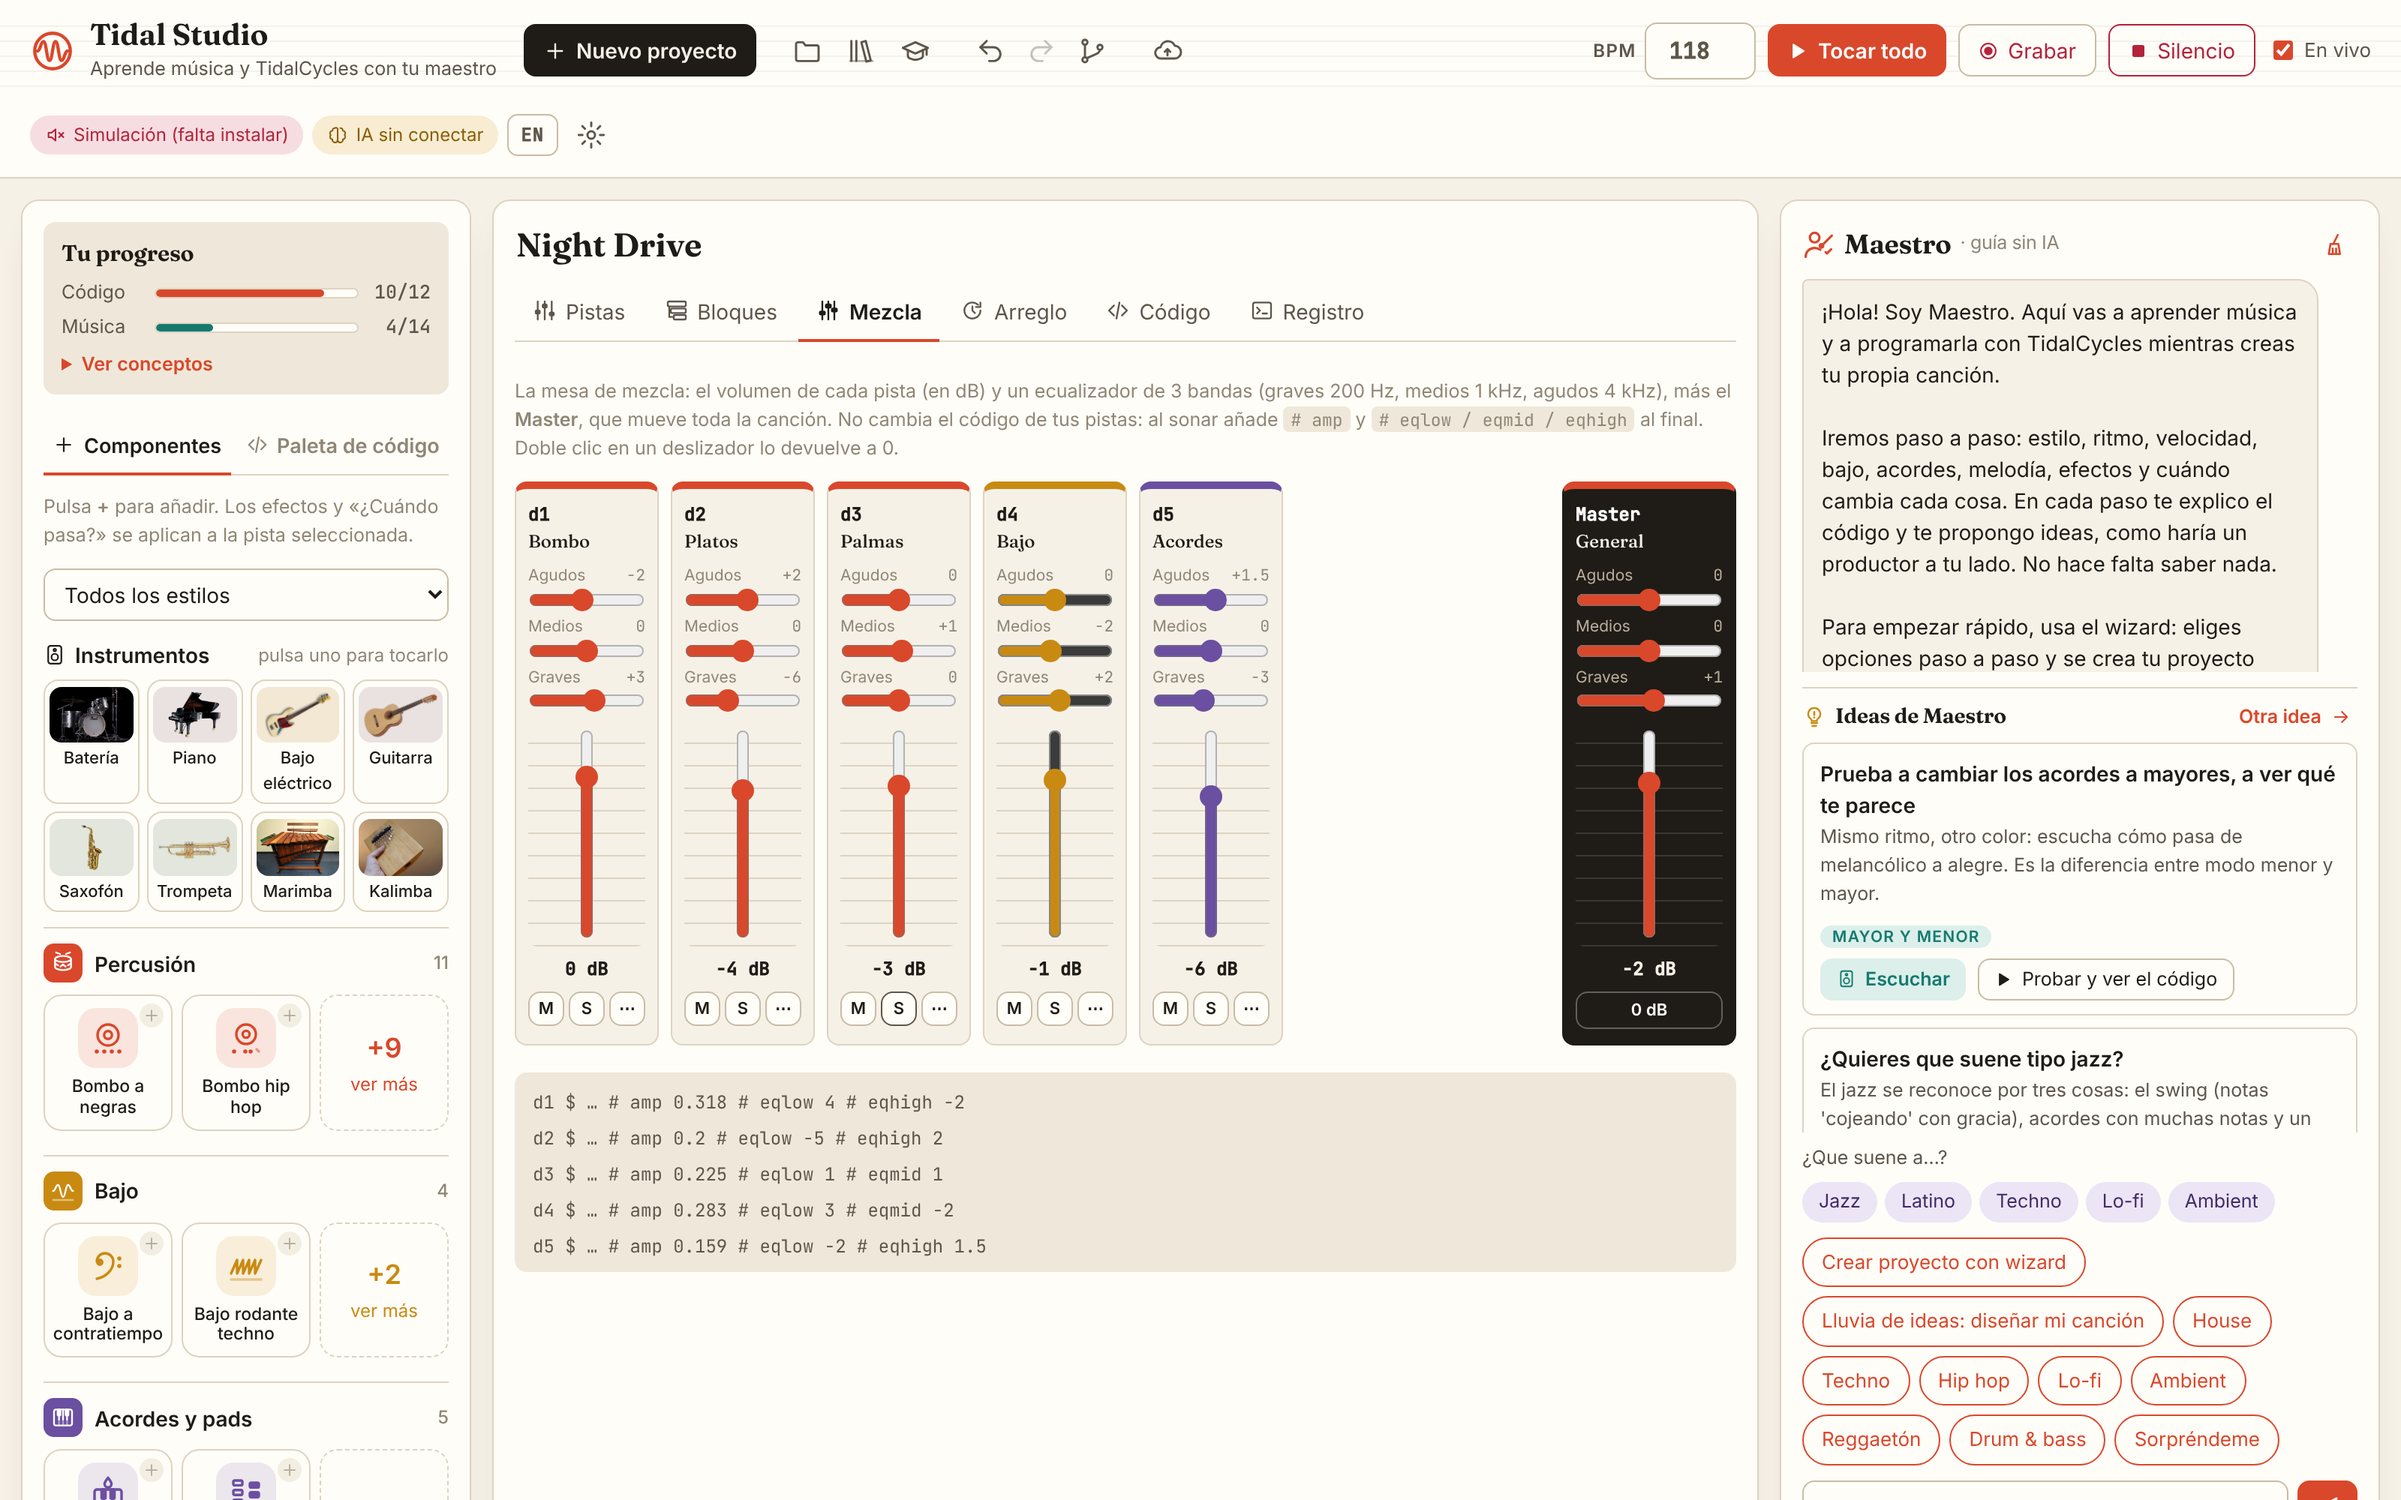
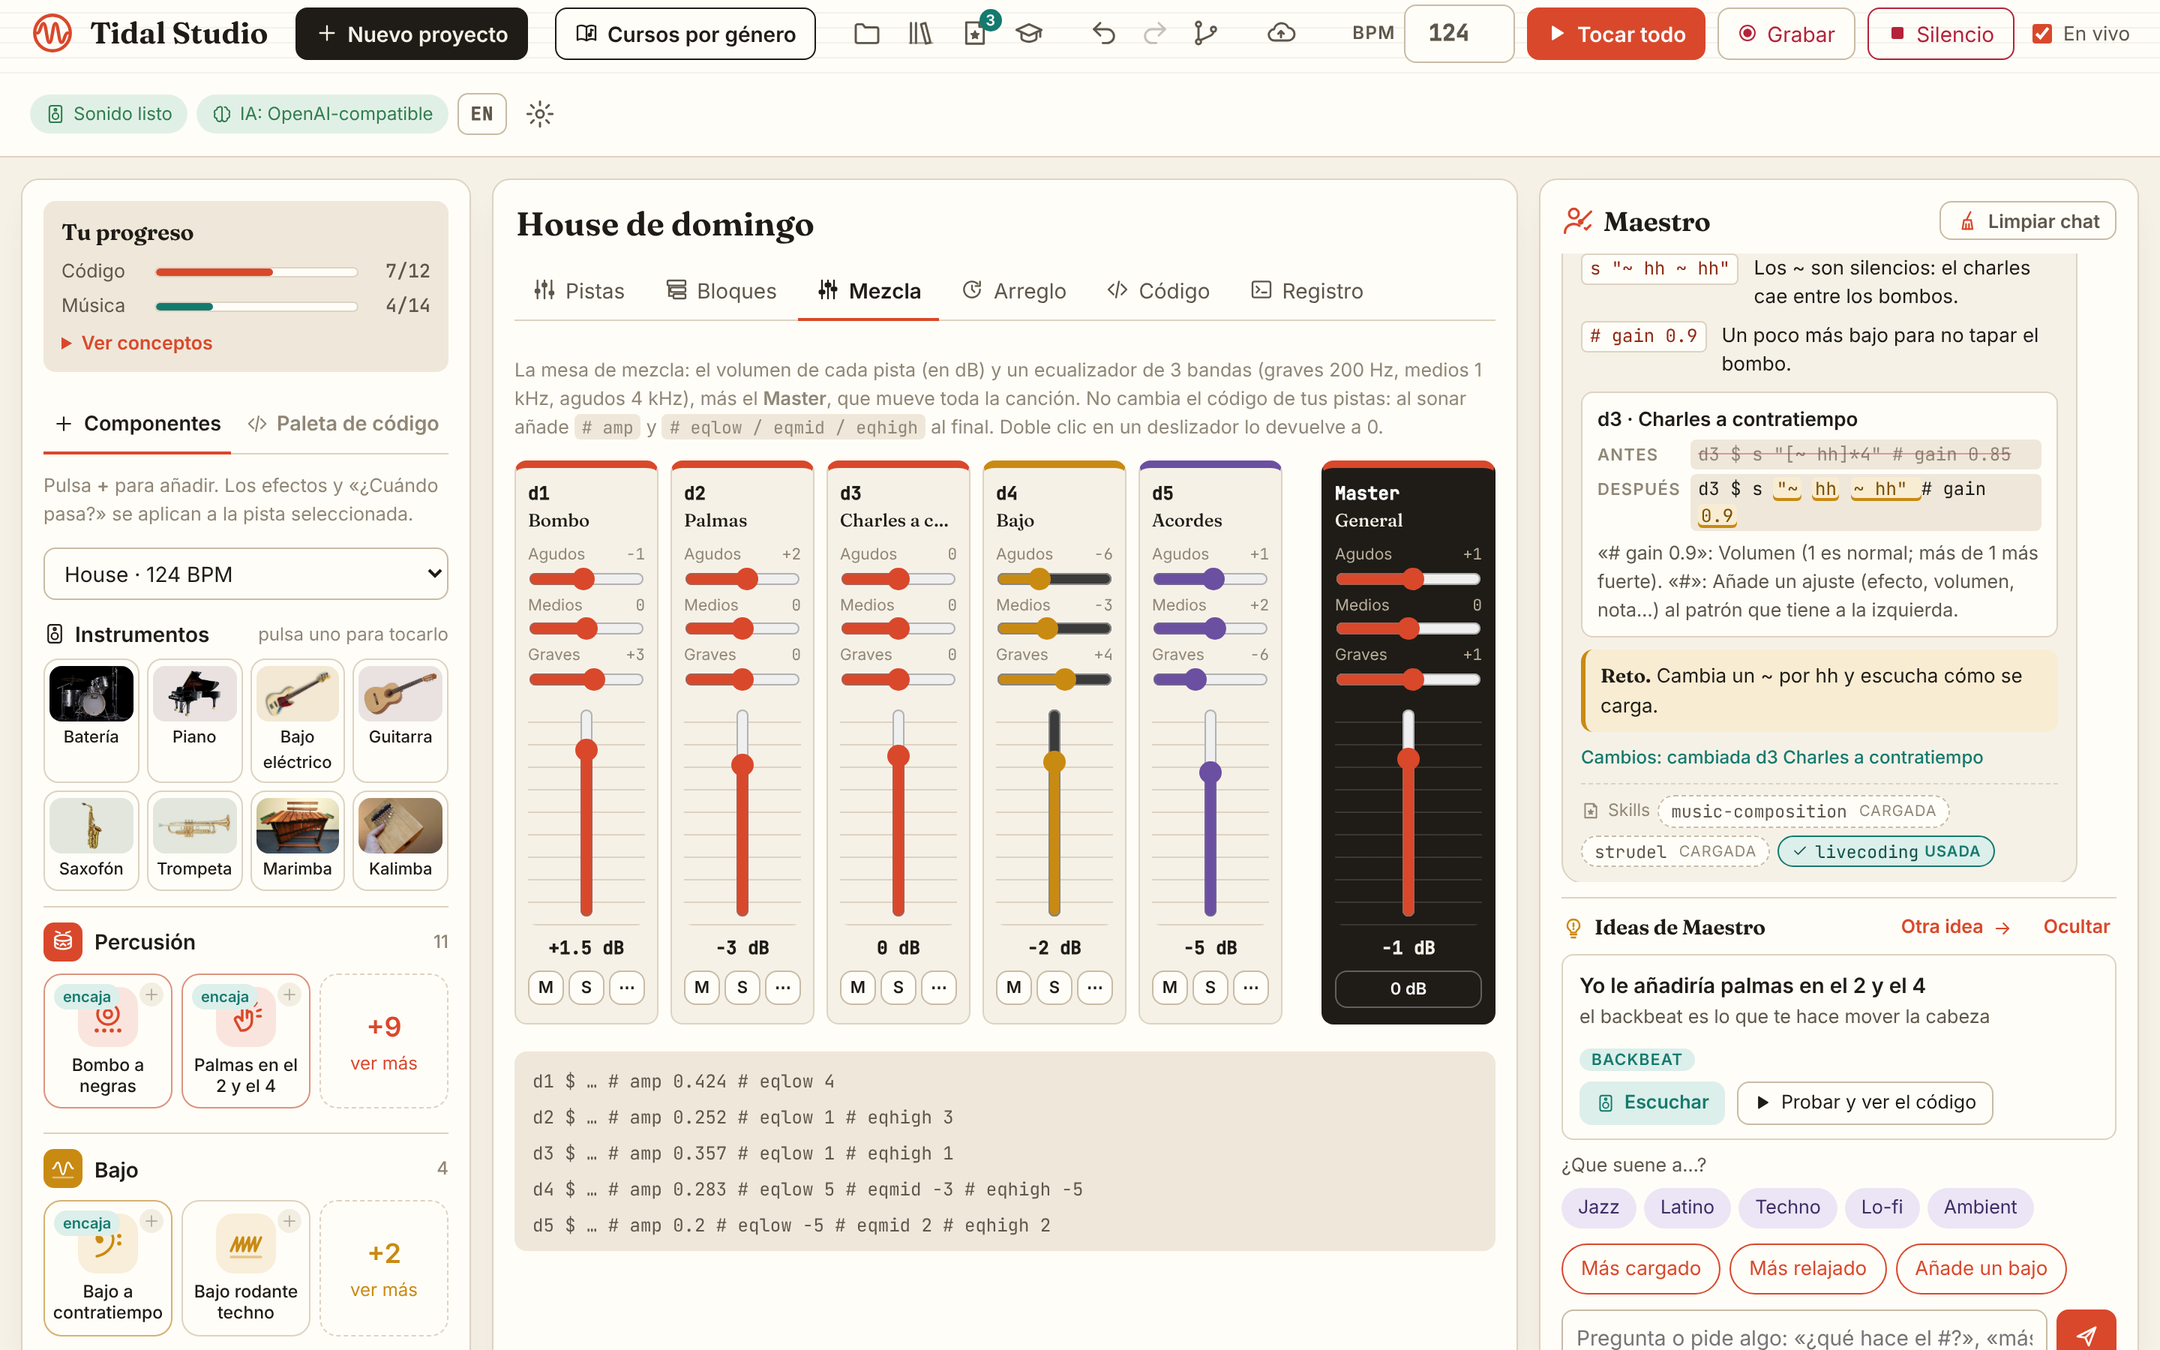
Docs: new screenshots for live highlighting, Mix, hide ideas and clear chat; landing page tiles and gallery
Claude-Session: https://claude.ai/code/session_011rzsaSjb5DDSKxh4Jak1FZ

Changed region(s): [[0.0, 0.0, 1.0, 1.0], [0.625, 0.0, 0.9688, 0.0622], [0.4062, 0.0, 0.5, 0.0311]]

diff --git a/docs/index.html b/docs/index.html
@@ -252,6 +252,9 @@ footer { padding: 40px 0; text-align: center; color: var(--ink-3); font-size: 14
       <div><svg class="i" viewBox="0 0 24 24"><path d="M8 7l-5 5 5 5M16 7l5 5-5 5M13.5 4l-3 16"/></svg><h4 data-i="f4h">Code always visible</h4><p data-i="f4p">Every track is real TidalCycles code you can edit. No black boxes.</p></div>
       <div><svg class="i" viewBox="0 0 24 24"><path d="M3 17l5-5 4 4 8-9"/><path d="M15 7h5v5"/></svg><h4 data-i="f5h">Your progress</h4><p data-i="f5p">See which code and music concepts you have used, and which are left to discover.</p></div>
       <div><svg class="i" viewBox="0 0 24 24"><circle cx="12" cy="12" r="9"/><path d="M3 12h18M12 3c2.5 2.6 3.8 5.6 3.8 9s-1.3 6.4-3.8 9c-2.5-2.6-3.8-5.6-3.8-9S9.5 5.6 12 3z"/></svg><h4 data-i="f6h">English and Spanish</h4><p data-i="f6p">Switch language with one button. Maestro answers in the language you choose.</p></div>
+      <div><svg class="i" viewBox="0 0 24 24"><rect x="3" y="5" width="18" height="14" rx="2"/><path d="M7 10h3M12 10h5M7 14h6"/><rect x="11.5" y="8.5" width="6" height="3" rx="1" fill="currentColor" stroke="none" opacity=".35"/></svg><h4 data-i="f7h">See what's sounding</h4><p data-i="f7p">While it plays, the step that is sounding lights up in the code, the tracks and the blocks.</p></div>
+      <div><svg class="i" viewBox="0 0 24 24"><path d="M6 3v18M12 3v18M18 3v18"/><rect x="4" y="13" width="4" height="3" rx="1" fill="currentColor" stroke="none"/><rect x="10" y="7" width="4" height="3" rx="1" fill="currentColor" stroke="none"/><rect x="16" y="10" width="4" height="3" rx="1" fill="currentColor" stroke="none"/></svg><h4 data-i="f8h">Mixing desk</h4><p data-i="f8p">Volume, 3-band EQ, mute and solo for every track, plus a Master. Your code stays clean.</p></div>
+      <div><svg class="i" viewBox="0 0 24 24"><path d="M6 3h9l4 4v14H6z"/><path d="M15 3v4h4M9 12h7M9 16h5"/></svg><h4 data-i="f9h">Maestro's skills</h4><p data-i="f9p">Maestro loads expert music skills (SKILL.md) and shows which ones it used in every answer.</p></div>
     </div>
   </div>
 </section>
@@ -374,6 +377,9 @@ const ES = {
   f4h: "Código siempre visible", f4p: "Cada pista es código TidalCycles real que puedes editar. Nada de cajas negras.",
   f5h: "Tu progreso", f5p: "Ve qué conceptos de código y de música ya has usado, y cuáles te quedan por descubrir.",
   f6h: "Español e inglés", f6p: "Cambia de idioma con un botón. Maestro responde en el idioma que elijas.",
+  f7h: "Ver lo que suena", f7p: "Mientras suena, el paso que está sonando se ilumina en el código, las pistas y los bloques.",
+  f8h: "Mesa de mezcla", f8p: "Volumen, ecualizador de 3 bandas, silencio y solo en cada pista, y un Master. Tu código queda limpio.",
+  f9h: "Skills de Maestro", f9p: "Maestro carga skills musicales expertas (SKILL.md) y te enseña cuáles ha usado en cada respuesta.",
   k2: "Wizard de proyecto base", t2: "Tu primera canción en siete clics.",
   l2: "Pulsa opciones y escucha el resultado en vivo. Las que encajan con tu estilo vienen marcadas, y el último paso te enseña todo el código explicado.",
   k3: "Así se ve", t3: "Un estudio claro, como una partitura.",
@@ -475,6 +481,9 @@ wzList.addEventListener("click", (e) => { const b = e.target.closest("button"); 
 // ---------- Galería ----------
 const SHOTS = [
   { en: ["The studio", "studio", "Your tracks with their code, «Explain» on each one and Maestro's ideas with pre-listen."], es: ["El estudio", "estudio", "Tus pistas con su código, «Explícame» en cada una y las ideas del maestro con pre-escucha."] },
+  { en: ["See what's sounding", "live-highlight-tracks", "While the music plays, the step that is sounding lights up in every track (also in Blocks and Code)."], es: ["Ver lo que suena", "resaltado-pistas", "Mientras suena la música, el paso que está sonando se ilumina en cada pista (también en Bloques y Código)."] },
+  { en: ["Mix", "mixer", "A mixing desk: volume, 3-band EQ, mute and solo per track, and a Master for the whole song."], es: ["Mezcla", "mezcla", "Una mesa de mezcla: volumen, ecualizador de 3 bandas, silencio y solo por pista, y un Master para toda la canción."] },
+  { en: ["Skills", "skills-panel", "Maestro's skills: turn them on, always load one, read it or install another from GitHub."], es: ["Skills", "panel-skills", "Las skills de Maestro: actívalas, carga una siempre, léela o instala otra desde GitHub."] },
   { en: ["Code help", "code-help", "Edited a track and it doesn't work? Maestro finds the problem, shows the fix and lets you listen first."], es: ["Ayuda con el código", "ayuda-codigo", "¿Has editado una pista y no va? Maestro encuentra el problema, te enseña el arreglo y te deja escucharlo antes."] },
   { en: ["Code palette", "code-palette", "Tidal blocks organized by goal and level. Click one and Maestro applies and explains it."], es: ["Paleta de código", "paleta-codigo", "Bloques de Tidal organizados por objetivo y nivel. Pulsas uno y Maestro lo aplica y te lo explica."] },
   { en: ["Tutorial", "tutorial", "An interactive tour: Maestro lights up each part and waits for you to try it."], es: ["Tutorial", "tutorial", "Un recorrido interactivo: Maestro ilumina cada parte y espera a que la pruebes."] },

diff --git a/README.es.md b/README.es.md
@@ -55,8 +55,10 @@ en vivo con un profesor de IA ("Maestro") que te acompaña en cada paso, aunque 
   4 kHz) en cada pista, silencio y solo, y un canal **Master** para toda la canción. No toca el código de tus pistas: al
   sonar añade `# amp` y `# eqlow / eqmid / eqhigh` (lo verás como una línea `-- mezcla` en la pestaña Código).
 - **Deshacer, rehacer e historial (rollback)**: cada cambio de la canción queda guardado. Botones deshacer/rehacer
-  (Ctrl/Cmd+Z, Ctrl/Cmd+Shift+Z) y un **Historial** para volver a cualquier versión anterior. El botón «Limpiar chat» limpia el chat de
-  Maestro (la canción no cambia; puedes recuperar el chat).
+  (Ctrl/Cmd+Z, Ctrl/Cmd+Shift+Z) y un **Historial** para volver a cualquier versión anterior.
+- **Un chat ordenado**: el botón «Limpiar chat» (arriba a la derecha del panel de Maestro) vacía la conversación sin tocar
+  tu canción, y el botón «Recuperar el chat» la devuelve. «Ocultar» pliega las ideas de Maestro para dejar más sitio al
+  chat (el navegador recuerda tu elección; «Mostrar» las vuelve a enseñar).
 - **Ver lo que suena**: mientras suena la música se ilumina, paso a paso, el trozo del código de cada pista que está
   sonando, en las vistas Pistas, Bloques y Código (como en Strudel). SuperDirt avisa a la app de cada nota que toca.
 - **Biblioteca de samples**: sonidos por tipo (bombos, cajas, platos, percusión, breaks, bajos, melódicos, pads, voces, FX,
@@ -64,8 +66,8 @@ en vivo con un profesor de IA ("Maestro") que te acompaña en cada paso, aunque 
   (WAV, AIFF, FLAC, OGG) o **busca en Freesound** (clave API gratuita) filtrando por licencia; lo descargado queda listo para
   Tidal y los créditos de los sonidos CC BY se apuntan en `samples/CREDITS.md`. La pestaña **Packs** explora packs de la
   comunidad en GitHub (unas 70 cajas de ritmos, Uzu drumkit, VCSL, un piano de cola, SP-12, mridangam, o cualquier
-  `github:usuario/repo` con un `strudel.json`): escucha, instala un sonido o una caja de ritmos entera. Maestro conoce tu
-  biblioteca y puede usarla.
+  `github:usuario/repo` con un `strudel.json`): escucha, instala un sonido o una caja de ritmos entera. **Los packs instalados y
+  los sonidos de Freesound se cargan en SuperDirt al momento**, sin reiniciar el motor. Maestro conoce tu biblioteca y puede usarla.
 - **Controles en el chat (agentic UI)**: Maestro pone deslizadores, control de tempo, selector de sonido y un secuenciador
   por pasos dentro de sus mensajes. Al moverlos se escribe el código Tidal en directo, así ves qué palabra cambia. Usa el
   botón de deslizadores de cada pista, el botón «Ajustar con controles» o pídeselo.
@@ -89,6 +91,20 @@ en vivo con un profesor de IA ("Maestro") que te acompaña en cada paso, aunque 
 - **macOS, Windows y Linux**: el instalador detecta tu sistema.
 
 ## Capturas
+
+### Novedades
+
+| Ver lo que suena: el paso que está sonando se ilumina en cada pista | …y en la vista de Bloques, paso a paso |
+|---|---|
+| ![Resaltado en directo en Pistas](docs/screenshots/es/resaltado-pistas.png) | ![Resaltado en directo en Bloques](docs/screenshots/es/resaltado-bloques.png) |
+
+| …y en la pestaña Código | Pestaña Mezcla: volumen, ecualizador de 3 bandas, silencio y solo por pista, y Master |
+|---|---|
+| ![Resaltado en directo en Código](docs/screenshots/es/resaltado-codigo.png) | ![Mezcla](docs/screenshots/es/mezcla.png) |
+
+| «Ocultar» las ideas de Maestro para tener más chat | «Limpiar chat»: la canción se queda y el chat puede volver |
+|---|---|
+| ![Ocultar ideas](docs/screenshots/es/ocultar-ideas.png) | ![Limpiar chat](docs/screenshots/es/limpiar-chat.png) |
 
 ### Skills de Maestro
 
@@ -136,9 +152,9 @@ Pulsas opciones y lo vas oyendo en vivo. Las recomendadas para tu estilo vienen 
 |---|---|
 | ![Editar un bloque](docs/screenshots/es/bloques-editar.png) | ![Tarjeta configuradora](docs/screenshots/es/tarjeta-configuradora.png) |
 
-| Pestaña Mezcla: volumen y ecualizador por pista y master | Historial de la canción (rollback) |
+| Historial de la canción (rollback) | |
 |---|---|
-| ![Mezcla](docs/screenshots/es/mezcla.png) | ![Historial](docs/screenshots/es/historial.png) |
+| ![Historial](docs/screenshots/es/historial.png) | |
 
 ### Vista de bloques y biblioteca de samples
 

diff --git a/README.md b/README.md
@@ -53,8 +53,10 @@ with an AI teacher ("Maestro") who supports you at every step, even if you know 
   for every track, mute and solo, and a **Master** strip for the whole song. It doesn't touch your track code: when
   playing it adds `# amp` and `# eqlow / eqmid / eqhigh` (shown as a `-- mix` line in the Code tab).
 - **Undo, redo and history (rollback)**: every change to the song is saved. Undo/redo buttons (Ctrl/Cmd+Z,
-  Ctrl/Cmd+Shift+Z) and a **History** list to go back to any earlier version. The «Clear chat» button clears Maestro's chat
-  (your song stays; you can bring the chat back).
+  Ctrl/Cmd+Shift+Z) and a **History** list to go back to any earlier version.
+- **A tidy chat**: the «Clear chat» button (top right of Maestro's panel) empties the conversation without touching your
+  song, and a «Bring the chat back» chip restores it. «Hide» folds Maestro's ideas away to give the chat more room
+  (the browser remembers your choice; «Show» brings them back).
 - **See what is sounding**: while the music plays, the part of each track's code that is sounding right now lights up,
   step by step, in the Tracks, Blocks and Code views (like Strudel). SuperDirt tells the app every note it plays.
 - **Sample library**: sounds by type (kicks, snares, hats, percussion, breaks, basses, melodic, pads, voices, FX, synths).
@@ -62,7 +64,8 @@ with an AI teacher ("Maestro") who supports you at every step, even if you know 
   (WAV, AIFF, FLAC, OGG) or **search Freesound** (free API key) filtering by license; downloads are ready for Tidal and
   credits for CC BY sounds are written to `samples/CREDITS.md`. The **Packs** tab browses community packs on GitHub
   (about 70 drum machines, Uzu drumkit, VCSL, a grand piano, SP-12, mridangam, or any `github:user/repo` with a
-  `strudel.json`): listen, install one sound or a whole drum machine. Maestro knows your library and can use it.
+  `strudel.json`): listen, install one sound or a whole drum machine. **Installed packs and Freesound sounds load into
+  SuperDirt right away**, without restarting the engine. Maestro knows your library and can use it.
 - **Controls in the chat (agentic UI)**: Maestro puts sliders, a tempo control, a sound selector and a step sequencer
   right inside its messages. Moving them writes the Tidal code live, so you see which word changes. Use the sliders button
   on any track, the «Tweak with controls» chip, or just ask for controls.
@@ -86,6 +89,20 @@ with an AI teacher ("Maestro") who supports you at every step, even if you know 
 - **macOS, Windows and Linux**: the installer detects your system.
 
 ## Screenshots
+
+### What's new
+
+| See what is sounding: the playing step lights up in every track | …and in the Blocks view, step by step |
+|---|---|
+| ![Live highlighting in Tracks](docs/screenshots/live-highlight-tracks.png) | ![Live highlighting in Blocks](docs/screenshots/live-highlight-blocks.png) |
+
+| …and in the Code tab | Mix tab: volume, 3-band EQ, mute and solo per track, plus Master |
+|---|---|
+| ![Live highlighting in Code](docs/screenshots/live-highlight-code.png) | ![Mixer](docs/screenshots/mixer.png) |
+
+| «Hide» Maestro's ideas for a bigger chat | «Clear chat»: the song stays, the chat can come back |
+|---|---|
+| ![Hide ideas](docs/screenshots/hide-ideas.png) | ![Clear chat](docs/screenshots/clear-chat.png) |
 
 ### Maestro's skills
 
@@ -133,9 +150,9 @@ Click options and hear the result live. The ones recommended for your style are 
 |---|---|
 | ![Editing a block](docs/screenshots/blocks-edit.png) | ![Configurator card](docs/screenshots/configurator-card.png) |
 
-| Mix tab: volume and EQ per track and master | Song history (rollback) |
+| Song history (rollback) | |
 |---|---|
-| ![Mixer](docs/screenshots/mixer.png) | ![History](docs/screenshots/history.png) |
+| ![History](docs/screenshots/history.png) | |
 
 ### Blocks view and sample library
 
